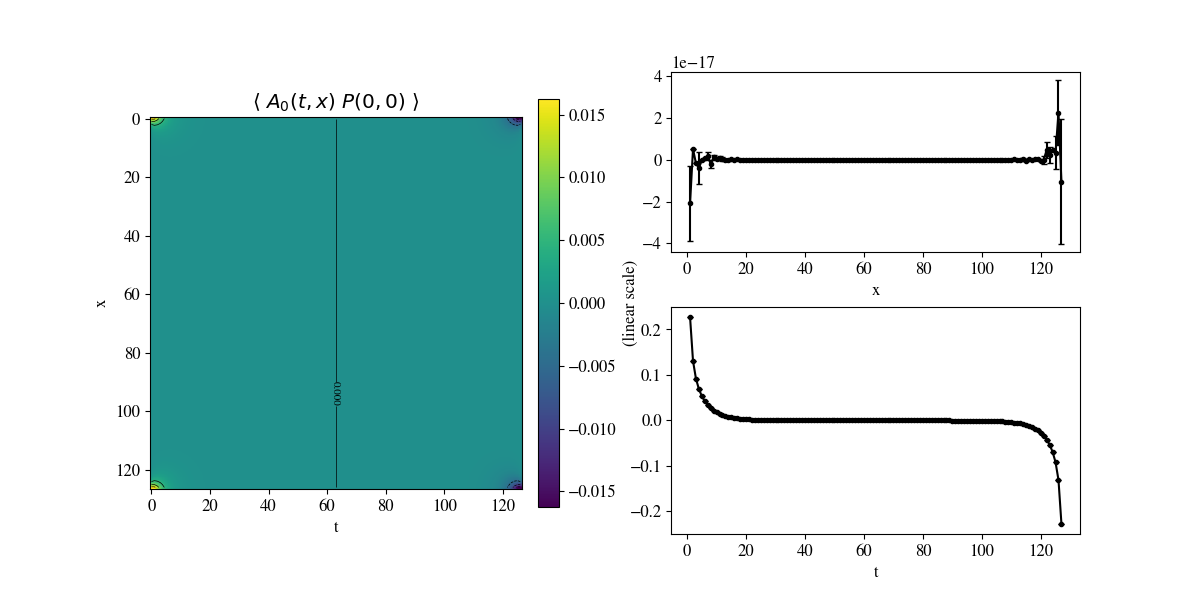
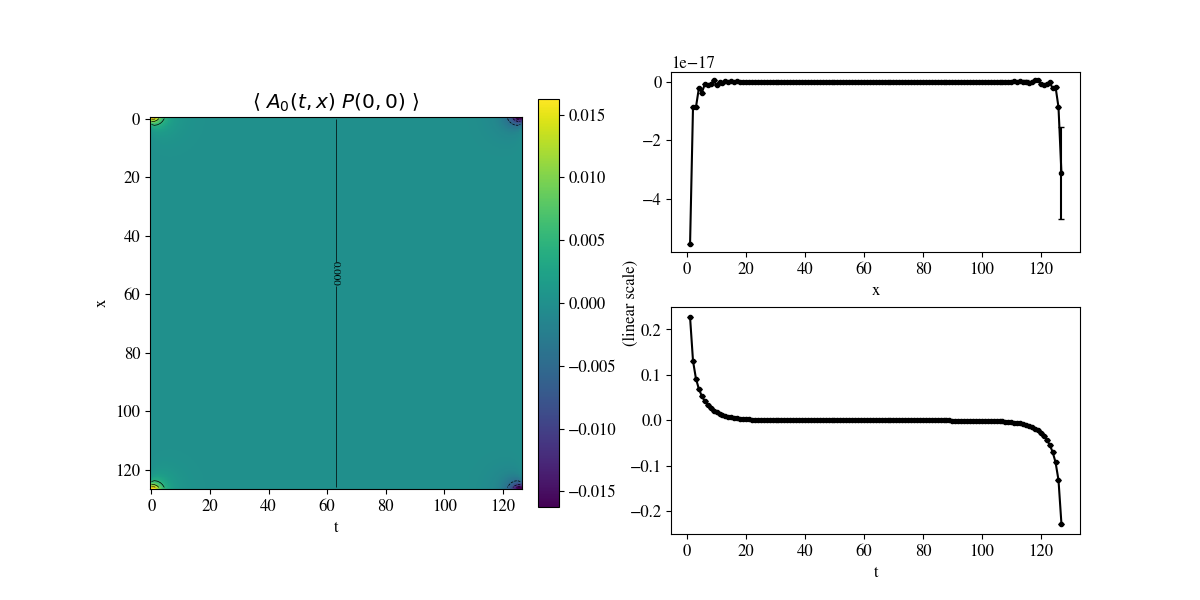
free theory tests

diff --git a/v1/include/lattice.h b/v1/include/lattice.h
@@ -4,14 +4,14 @@
 /* Dimension of the lattice */
 #define D 2
 /* spatial extent of the lattice */
-#define L 64
+#define L 128
 /* temporal extent of the lattice */
-#define T 16
+#define T 128
 /* lattice volume, needs to be adjusted according to number of dimensions*/
 #define V (L*T)
 
 /* Periodicity of pseudofermion fields in time */
-#define PERIODIC 1
+#define PERIODIC 0
 
 #ifdef CONTROL 
 #define EXTERN 
